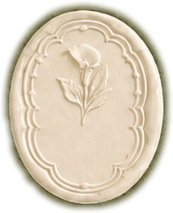
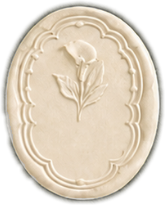
fix: neutralize seal cutout edge band — no olive glow on the open envelope
The cutouts' semi-transparent edge pixels are now desaturated (paper tint
can't ride along in the feather) and the front cutout is tighter (dilate
2/blur 2). Kills the faint olive glow around the open-envelope seal on
recolored paper; verified zoomed on wine + brown for both arts.

diff --git a/src/styles/styles.css b/src/styles/styles.css
@@ -1536,7 +1536,7 @@ img.inv-seal-img--sealed {
 }
 /* front seal position is in STACK coords: the front art is inset (left 6%, top 30%,
    width 84%), so image-space (50.44%, 70.7%, 12.3%) converts to the values below */
-img.inv-seal-img--front { left: 48.28%; top: 89.56%; width: 10.63%; transform: translate(-50%, -50%); z-index: 6; }
+img.inv-seal-img--front { left: 48.28%; top: 89.56%; width: 10.15%; transform: translate(-50%, -50%); z-index: 6; }
 .inv-seal-hotspot {
   position: absolute; left: 49.3%; top: 56.8%; width: 13%; height: 26%;
   transform: translate(-50%, -50%); border: 0; background: transparent; padding: 0; margin: 0;